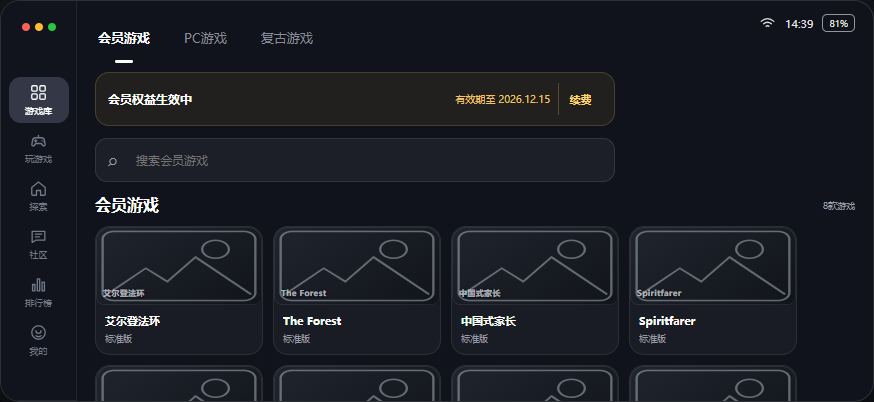
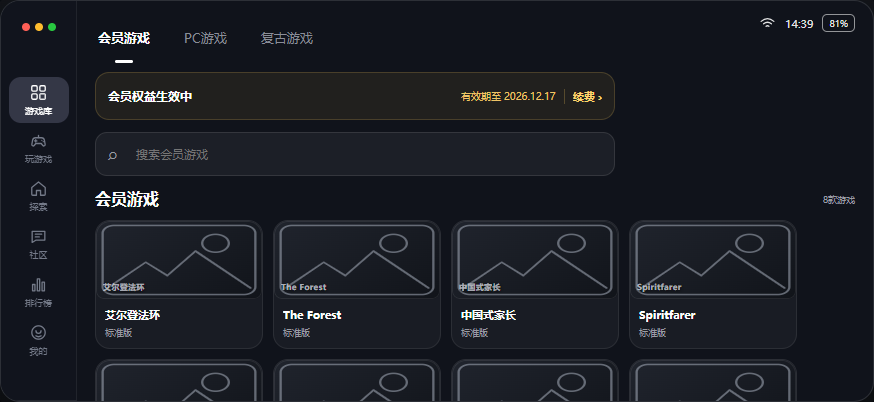
feat(app-rental): make member status bar actionable

diff --git a/demos/APP租号功能/盖世游戏APP租号功能-标注版.html b/demos/APP租号功能/盖世游戏APP租号功能-标注版.html
@@ -379,11 +379,12 @@
     .library-card strong { display: block; overflow: hidden; margin: 9px 10px 3px; font-size: 13px; text-overflow: ellipsis; white-space: nowrap; }
     .library-card .library-edition-entitlement { display: block; margin: 0 10px; color: #8c8d94; font-size: 9px; }
     .library-card .library-validity { display: block; margin: 5px 10px 0; color: #cfd1d8; font-family: var(--font-number); font-size: 9px; }
-    .member-library-status { display: flex; min-height: 48px; align-items: center; justify-content: space-between; gap: 14px; margin-bottom: 12px; padding: 10px 12px; border: 1px solid rgb(255 210 92 / 18%); border-radius: 14px; background: rgb(255 204 67 / 7%); }
+    .member-library-status { display: flex; width: 100%; min-height: 48px; appearance: none; align-items: center; justify-content: space-between; gap: 14px; margin-bottom: 12px; padding: 10px 12px; border: 1px solid rgb(255 210 92 / 18%); border-radius: 14px; background: rgb(255 204 67 / 7%); color: #fff; cursor: pointer; font: inherit; text-align: left; }
+    .member-library-status:focus-visible { outline: 2px solid #ffd56f; outline-offset: 2px; }
     .member-library-status strong { font-size: 12px; }
     .member-library-status span { color: #efc467; font-size: 10px; }
     .member-library-status-actions { display: flex; min-width: 0; align-items: center; justify-content: flex-end; gap: 8px; }
-    .member-library-renewal { min-width: 44px; min-height: 32px; padding: 0 8px; border: 0; border-left: 1px solid rgb(255 210 92 / 24%); background: transparent; color: #ffd56f; cursor: pointer; font-size: 11px; font-weight: 700; }
+    .member-library-status-action { flex: 0 0 auto; padding-left: 8px; border-left: 1px solid rgb(255 210 92 / 24%); color: #ffd56f; font-size: 11px; font-weight: 700; white-space: nowrap; }
 
     .profile-tools { display: flex; justify-content: flex-end; gap: 5px; margin-bottom: 21px; }
     .icon-button { display: grid; width: 44px; height: 44px; place-items: center; border: 0; border-radius: 50%; background: transparent; cursor: pointer; }
@@ -5219,10 +5220,11 @@
     function renderMemberLibraryStatus() {
       const validity = formatMembershipValidity();
       const active = hasActiveMembership();
-      const action = active
-        ? `<span class="member-library-status-actions"><span>${validity}</span><button class="member-library-renewal" type="button" data-action="navigate" data-screen="membership" data-member-renewal>续费</button></span>`
-        : '<span>开通后可畅玩会员游戏</span>';
-      return `<div class="member-library-status"><strong>${active ? '会员权益生效中' : '会员未开通'}</strong>${action}</div>`;
+      const title = active ? '会员权益生效中' : '会员未开通';
+      const detail = active ? validity : '开通后可畅玩会员游戏';
+      const actionLabel = active ? '续费 ›' : '去开通 ›';
+      const ariaLabel = active ? `${title}，${validity}，续费` : `${title}，去开通`;
+      return `<button class="member-library-status" type="button" data-action="navigate" data-screen="membership" data-member-status-entry data-member-status="${active ? 'active' : 'inactive'}" aria-label="${escapeAttribute(ariaLabel)}"><strong>${title}</strong><span class="member-library-status-actions"><span>${detail}</span><b class="member-library-status-action">${actionLabel}</b></span></button>`;
     }
 
     function renderMemberLibrarySection() {

diff --git a/demos/APP租号功能/盖世游戏APP租号功能demo.html b/demos/APP租号功能/盖世游戏APP租号功能demo.html
@@ -379,11 +379,12 @@
     .library-card strong { display: block; overflow: hidden; margin: 9px 10px 3px; font-size: 13px; text-overflow: ellipsis; white-space: nowrap; }
     .library-card .library-edition-entitlement { display: block; margin: 0 10px; color: #8c8d94; font-size: 9px; }
     .library-card .library-validity { display: block; margin: 5px 10px 0; color: #cfd1d8; font-family: var(--font-number); font-size: 9px; }
-    .member-library-status { display: flex; min-height: 48px; align-items: center; justify-content: space-between; gap: 14px; margin-bottom: 12px; padding: 10px 12px; border: 1px solid rgb(255 210 92 / 18%); border-radius: 14px; background: rgb(255 204 67 / 7%); }
+    .member-library-status { display: flex; width: 100%; min-height: 48px; appearance: none; align-items: center; justify-content: space-between; gap: 14px; margin-bottom: 12px; padding: 10px 12px; border: 1px solid rgb(255 210 92 / 18%); border-radius: 14px; background: rgb(255 204 67 / 7%); color: #fff; cursor: pointer; font: inherit; text-align: left; }
+    .member-library-status:focus-visible { outline: 2px solid #ffd56f; outline-offset: 2px; }
     .member-library-status strong { font-size: 12px; }
     .member-library-status span { color: #efc467; font-size: 10px; }
     .member-library-status-actions { display: flex; min-width: 0; align-items: center; justify-content: flex-end; gap: 8px; }
-    .member-library-renewal { min-width: 44px; min-height: 32px; padding: 0 8px; border: 0; border-left: 1px solid rgb(255 210 92 / 24%); background: transparent; color: #ffd56f; cursor: pointer; font-size: 11px; font-weight: 700; }
+    .member-library-status-action { flex: 0 0 auto; padding-left: 8px; border-left: 1px solid rgb(255 210 92 / 24%); color: #ffd56f; font-size: 11px; font-weight: 700; white-space: nowrap; }
 
     .profile-tools { display: flex; justify-content: flex-end; gap: 5px; margin-bottom: 21px; }
     .icon-button { display: grid; width: 44px; height: 44px; place-items: center; border: 0; border-radius: 50%; background: transparent; cursor: pointer; }
@@ -4782,10 +4783,11 @@
     function renderMemberLibraryStatus() {
       const validity = formatMembershipValidity();
       const active = hasActiveMembership();
-      const action = active
-        ? `<span class="member-library-status-actions"><span>${validity}</span><button class="member-library-renewal" type="button" data-action="navigate" data-screen="membership" data-member-renewal>续费</button></span>`
-        : '<span>开通后可畅玩会员游戏</span>';
-      return `<div class="member-library-status"><strong>${active ? '会员权益生效中' : '会员未开通'}</strong>${action}</div>`;
+      const title = active ? '会员权益生效中' : '会员未开通';
+      const detail = active ? validity : '开通后可畅玩会员游戏';
+      const actionLabel = active ? '续费 ›' : '去开通 ›';
+      const ariaLabel = active ? `${title}，${validity}，续费` : `${title}，去开通`;
+      return `<button class="member-library-status" type="button" data-action="navigate" data-screen="membership" data-member-status-entry data-member-status="${active ? 'active' : 'inactive'}" aria-label="${escapeAttribute(ariaLabel)}"><strong>${title}</strong><span class="member-library-status-actions"><span>${detail}</span><b class="member-library-status-action">${actionLabel}</b></span></button>`;
     }
 
     function renderMemberLibrarySection() {

diff --git a/demos/APP租号功能/盖世游戏APP租号功能demo.template.html b/demos/APP租号功能/盖世游戏APP租号功能demo.template.html
@@ -379,11 +379,12 @@
     .library-card strong { display: block; overflow: hidden; margin: 9px 10px 3px; font-size: 13px; text-overflow: ellipsis; white-space: nowrap; }
     .library-card .library-edition-entitlement { display: block; margin: 0 10px; color: #8c8d94; font-size: 9px; }
     .library-card .library-validity { display: block; margin: 5px 10px 0; color: #cfd1d8; font-family: var(--font-number); font-size: 9px; }
-    .member-library-status { display: flex; min-height: 48px; align-items: center; justify-content: space-between; gap: 14px; margin-bottom: 12px; padding: 10px 12px; border: 1px solid rgb(255 210 92 / 18%); border-radius: 14px; background: rgb(255 204 67 / 7%); }
+    .member-library-status { display: flex; width: 100%; min-height: 48px; appearance: none; align-items: center; justify-content: space-between; gap: 14px; margin-bottom: 12px; padding: 10px 12px; border: 1px solid rgb(255 210 92 / 18%); border-radius: 14px; background: rgb(255 204 67 / 7%); color: #fff; cursor: pointer; font: inherit; text-align: left; }
+    .member-library-status:focus-visible { outline: 2px solid #ffd56f; outline-offset: 2px; }
     .member-library-status strong { font-size: 12px; }
     .member-library-status span { color: #efc467; font-size: 10px; }
     .member-library-status-actions { display: flex; min-width: 0; align-items: center; justify-content: flex-end; gap: 8px; }
-    .member-library-renewal { min-width: 44px; min-height: 32px; padding: 0 8px; border: 0; border-left: 1px solid rgb(255 210 92 / 24%); background: transparent; color: #ffd56f; cursor: pointer; font-size: 11px; font-weight: 700; }
+    .member-library-status-action { flex: 0 0 auto; padding-left: 8px; border-left: 1px solid rgb(255 210 92 / 24%); color: #ffd56f; font-size: 11px; font-weight: 700; white-space: nowrap; }
 
     .profile-tools { display: flex; justify-content: flex-end; gap: 5px; margin-bottom: 21px; }
     .icon-button { display: grid; width: 44px; height: 44px; place-items: center; border: 0; border-radius: 50%; background: transparent; cursor: pointer; }
@@ -4782,10 +4783,11 @@
     function renderMemberLibraryStatus() {
       const validity = formatMembershipValidity();
       const active = hasActiveMembership();
-      const action = active
-        ? `<span class="member-library-status-actions"><span>${validity}</span><button class="member-library-renewal" type="button" data-action="navigate" data-screen="membership" data-member-renewal>续费</button></span>`
-        : '<span>开通后可畅玩会员游戏</span>';
-      return `<div class="member-library-status"><strong>${active ? '会员权益生效中' : '会员未开通'}</strong>${action}</div>`;
+      const title = active ? '会员权益生效中' : '会员未开通';
+      const detail = active ? validity : '开通后可畅玩会员游戏';
+      const actionLabel = active ? '续费 ›' : '去开通 ›';
+      const ariaLabel = active ? `${title}，${validity}，续费` : `${title}，去开通`;
+      return `<button class="member-library-status" type="button" data-action="navigate" data-screen="membership" data-member-status-entry data-member-status="${active ? 'active' : 'inactive'}" aria-label="${escapeAttribute(ariaLabel)}"><strong>${title}</strong><span class="member-library-status-actions"><span>${detail}</span><b class="member-library-status-action">${actionLabel}</b></span></button>`;
     }
 
     function renderMemberLibrarySection() {
